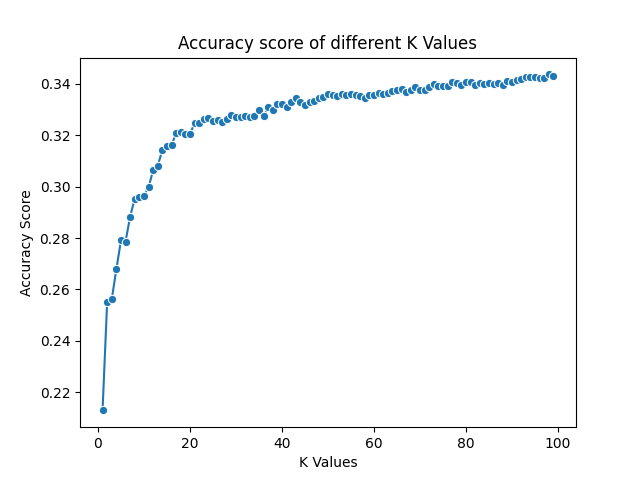
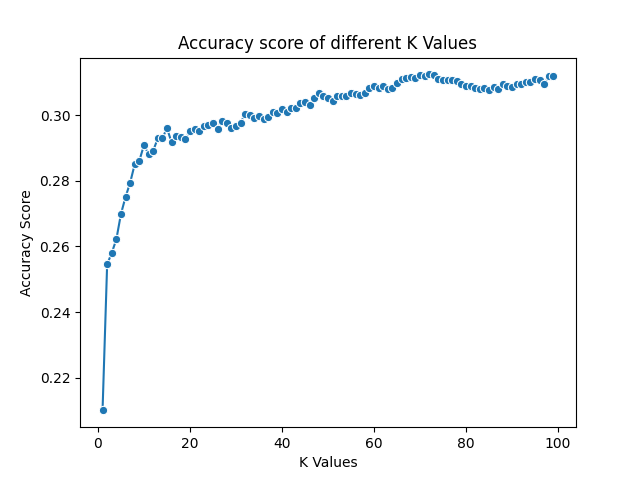
Make MODEL

diff --git a/MODEL.py b/MODEL.py
@@ -1,0 +1,63 @@
+from combine_data_ import create_dataset
+from target_transformation import Target_classification
+from missing_values import interpolate
+from missing_values import kalman_filter
+from Split_and_models import Stratified_Split
+from Split_and_models import kfold_crossvalidation
+from Split_and_models import k_nearest_neighbor
+from Split_and_models import support_vector_machine_without_kernel
+from Split_and_models import naive_bayes
+from Split_and_models import random_forest
+from Split_and_models import feedforward_neural_network
+
+print("packages loaded")
+
+#Choose the method and algorithm
+method = "interpolate"
+algorithm = "k_nearest_neighbor"
+
+#combine_data_
+data_table = create_dataset('C:\\Users\\irene\\OneDrive\\Bureaublad\\ML\\ML4QS\\data_used\\weather_2022_2023.txt', delta_t=10)
+weather_steps = data_table.merge_data_weather(dir_steps='C:\\Users\\irene\\OneDrive\\Bureaublad\\ML\\ML4QS\\data_used\\StepCount.csv',
+                        dir_heart='C:\\Users\\irene\\OneDrive\\Bureaublad\\ML\\ML4QS\\data_used\\HeartRate.csv',
+                        dir_workout='C:\\Users\\irene\\OneDrive\\Bureaublad\\ML\\ML4QS\\data_used\\Workout.csv',
+                        start_date='2022-01-01 00:00:00',
+                        end_date='2023-06-06 00:00:00')
+
+#weather_steps = create_dataset.data_table
+weather_steps.to_csv('weather_steps.csv')
+
+#Target_transformation
+weather_steps = Target_classification('C:\\Users\\irene\\OneDrive\\Bureaublad\\ML\\ML4QS\\data_used\\weather_steps.csv')
+weather_steps.to_csv('weather_steps.csv')
+
+#missing_values
+if method == 'interpolate':
+    weather_steps = interpolate('C:\\Users\\irene\\OneDrive\\Bureaublad\\ML\\ML4QS\\data_used\\weather_steps.csv')
+elif method == 'kalman_filter':
+    weather_steps = kalman_filter('C:\\Users\\irene\\OneDrive\\Bureaublad\\ML\\ML4QS\\data_used\\weather_steps.csv')
+weather_steps.to_csv('weather_steps.csv')
+
+#train/test split
+split_method = "kfold_crossvalidation"
+if split_method == "Stratified_Split":
+     train_X, test_X, train_y, test_y, val_X, val_y = Stratified_Split('C:\\Users\\irene\\OneDrive\\Bureaublad\\ML\\ML4QS\\data_used\\weather_steps.csv')
+elif split_method == "kfold_crossvalidation":
+     train_X, test_X, train_y, test_y, val_X, val_y = kfold_crossvalidation('C:\\Users\\irene\\OneDrive\\Bureaublad\\ML\\ML4QS\\data_used\\weather_steps.csv')
+else:
+    print("finished")
+
+#Model
+if algorithm == "k_nearest_neighbor":
+    pred_training_y, pred_test_y, frame_prob_training_y, frame_prob_test_y = k_nearest_neighbor(train_X, train_y, val_X, val_y, n_neighbors=80, gridsearch=False, print_model_details=False)
+elif algorithm == "support_vector_machine_without_kernel":
+    pred_training_y, pred_test_y, frame_prob_training_y, frame_prob_test_y = support_vector_machine_without_kernel(train_X, train_y, val_X, C=1, tol=1e-3, max_iter=100, gridsearch=True, print_model_details=False)
+elif algorithm == "naive_bayes":
+    pred_training_y, pred_test_y, frame_prob_training_y, frame_prob_test_y = naive_bayes(train_X, train_y, val_X)
+elif algorithm == "random_forest":
+    pred_training_y, pred_test_y, frame_prob_training_y, frame_prob_test_y = random_forest(train_X, train_y, val_X, n_estimators=10, min_samples_leaf=5, criterion='gini', print_model_details=False, gridsearch=True)
+elif algorithm == "feedforward_neural_network":
+    pred_training_y, pred_test_y, frame_prob_training_y, frame_prob_test_y = feedforward_neural_network(train_X, train_y, val_X, hidden_layer_sizes=(100,), max_iter=500, activation='logistic', alpha=0.0001, learning_rate='adaptive', gridsearch=True, print_model_details=False)
+else:
+    print("finished")
+

diff --git a/Split_and_models.py b/Split_and_models.py
@@ -19,8 +19,8 @@ import matplotlib.pyplot as plt
 
 
 
-def Stratified_Split(weather_df):
-    New_weather_steps = pd.read_csv(weather_df)
+def Stratified_Split(New_weather_steps):
+    New_weather_steps = pd.read_csv(New_weather_steps)
     New_weather_steps = New_weather_steps.drop("Unnamed: 0",axis=1)
     X = New_weather_steps.drop(columns=['combined', 'start', 'end'])
     y = New_weather_steps['combined']  
@@ -28,11 +28,11 @@ def Stratified_Split(weather_df):
                                                        
     #VALIDATIONSET
     train_X, val_X, train_y, val_y = train_test_split(train_X, train_y, test_size=0.2, stratify=train_y, random_state=42)
-    print("train/test set created, using stratified_split")
+    #print("train/test set created, using stratified_split")
     return(train_X, test_X, train_y, test_y, val_X, val_y)
 
-def kfold_crossvalidation(weather_df):
-    New_weather_steps = pd.read_csv(weather_df)
+def kfold_crossvalidation(New_weather_steps):
+    New_weather_steps = pd.read_csv(New_weather_steps)
     New_weather_steps = New_weather_steps.drop("Unnamed: 0",axis=1)
     X = New_weather_steps.drop(columns=['combined', 'start', 'end'])
     y = New_weather_steps['combined']  
@@ -45,23 +45,22 @@ def kfold_crossvalidation(weather_df):
     #VALIDATIONSET
     val_X = test_X
     val_y = test_y
-    print("train/test set created, using kfold_crossvalidation")
+    #print("train/test set created, using kfold_crossvalidation")
     return(train_X, test_X, train_y, test_y, val_X, val_y)
 
 
 
-def k_nearest_neighbor(train_X, train_y, val_X, val_y, n_neighbors=5, gridsearch=True, print_model_details=False):
+def k_nearest_neighbor(train_X, train_y, val_X, val_y, n_neighbors=80, gridsearch=True, print_model_details=False):
     # Create the model
     if gridsearch:
-        print("hoi")
         tuned_parameters = [{'n_neighbors': [1, 2, 5, 10]}]
         knn = GridSearchCV(KNeighborsClassifier(), tuned_parameters, cv=5, scoring='accuracy')
     else:
         knn = KNeighborsClassifier(n_neighbors=n_neighbors)
-    print("KNN created")
+    #print("KNN created")
     # Fit the model
     knn.fit(train_X, train_y.values.ravel())
-    print("model fitted")
+    #print("model fitted")
     if gridsearch and print_model_details:
         print(knn.best_params_)
 
@@ -75,9 +74,9 @@ def k_nearest_neighbor(train_X, train_y, val_X, val_y, n_neighbors=5, gridsearch
     pred_test_y = knn.predict(val_X)
     frame_prob_training_y = pd.DataFrame(pred_prob_training_y, columns=knn.classes_)
     #frame_prob_test_y = pd.DataFrame(pred_prob_test_y, columns=knn.classes_)
-    print("predictions are made")
+    #print("predictions are made")
 
-    print("Accuracy:",metrics.accuracy_score(val_y, pred_test_y))
+    #print("Accuracy:",metrics.accuracy_score(val_y, pred_test_y))
 
     #plot
     k_values = [i for i in range (1,100)]
@@ -87,7 +86,7 @@ def k_nearest_neighbor(train_X, train_y, val_X, val_y, n_neighbors=5, gridsearch
     X = scaler.fit_transform(val_X)
 
     for k in k_values:
-        print(k)
+        #print(k)
         knn = KNeighborsClassifier(n_neighbors=k)
         score = cross_val_score(knn, X, val_y, cv=5)
         scores.append(np.mean(score))

diff --git a/missing_values.py b/missing_values.py
@@ -3,8 +3,8 @@ import numpy as np
 from pykalman import KalmanFilter
 
 
-def interpolate(Target_df):
-    New_weather_steps = pd.read_csv(Target_df)
+def interpolate(New_weather_steps):
+    New_weather_steps = pd.read_csv(New_weather_steps)
     New_weather_steps = New_weather_steps.drop("Unnamed: 0",axis=1)
 
     New_weather_steps['value_heart'] = New_weather_steps['value_heart'].interpolate()
@@ -12,8 +12,8 @@ def interpolate(Target_df):
 
 
 
-def kalman_filter(Target_df):
-    New_weather_steps = pd.read_csv(Target_df)
+def kalman_filter(New_weather_steps):
+    New_weather_steps = pd.read_csv(New_weather_steps)
     New_weather_steps = New_weather_steps.drop("Unnamed: 0",axis=1)
 
     # Initialize the Kalman filter with the trivial transition and observation matrices.
@@ -32,10 +32,5 @@ def kalman_filter(Target_df):
     New_weather_steps["value_heart" + '_kalman'] = new_data
     return(New_weather_steps)
 
-method = "interpolate"
-if method == 'interpolate':
-    df = interpolate("C:\\Users\\irene\\OneDrive\\Bureaublad\\ML\\ML4QS\\data_used\\Target_weather_steps.csv")
-elif method == 'kalman_filter':
-    df = kalman_filter("C:\\Users\\irene\\OneDrive\\Bureaublad\\ML\\ML4QS\\data_used\\Target_weather_steps.csv")
 
-df.to_csv('Missing_weather_steps.csv')
+

diff --git a/target_transformation.py b/target_transformation.py
@@ -1,9 +1,9 @@
 import pandas as pd
 import numpy as np
 
-def Target_classification(Weather_steps_df):
+def Target_classification(New_weather_steps):
     #load dataset
-    New_weather_steps = pd.read_csv(Weather_steps_df)
+    New_weather_steps = pd.read_csv(New_weather_steps)
     New_weather_steps = New_weather_steps.drop("Unnamed: 0",axis=1)
     New_weather_steps["value_heart"].replace(0, np.nan, inplace=True)
 
@@ -75,7 +75,7 @@ def Target_classification(Weather_steps_df):
             New_weather_steps["value_workout"][g] = 9
     return(New_weather_steps)
 
-Target_weather_steps = Target_classification("C:\\Users\\irene\\OneDrive\\Bureaublad\\ML\\ML4QS\\data_used\\New_weather_steps.csv")
-Target_weather_steps.to_csv('Target_weather_steps.csv')
+#Target_weather_steps = Target_classification("C:\\Users\\irene\\OneDrive\\Bureaublad\\ML\\ML4QS\\data_used\\New_weather_steps.csv")
+#Target_weather_steps.to_csv('Target_weather_steps.csv')
 
 

diff --git a/combine_data_.py b/combine_data_.py
@@ -176,14 +176,7 @@ class create_dataset:
 
 
 
-data = create_dataset('C:\\Users\\irene\\OneDrive\\Bureaublad\\ML\\ML4QS\\data_used\\weather_2022_2023.txt', delta_t=10)
-data.merge_data_weather(dir_steps='C:\\Users\\irene\\OneDrive\\Bureaublad\\ML\\ML4QS\\data_used\\StepCount.csv',
-                        dir_heart='C:\\Users\\irene\\OneDrive\\Bureaublad\\ML\\ML4QS\\data_used\\HeartRate.csv',
-                        dir_workout='C:\\Users\\irene\\OneDrive\\Bureaublad\\ML\\ML4QS\\data_used\\Workout.csv',
-                        start_date='2022-01-01 00:00:00',
-                        end_date='2023-06-06 00:00:00')
 
-data.data_frame.to_csv('New_weather_steps.csv')
 
 
 
